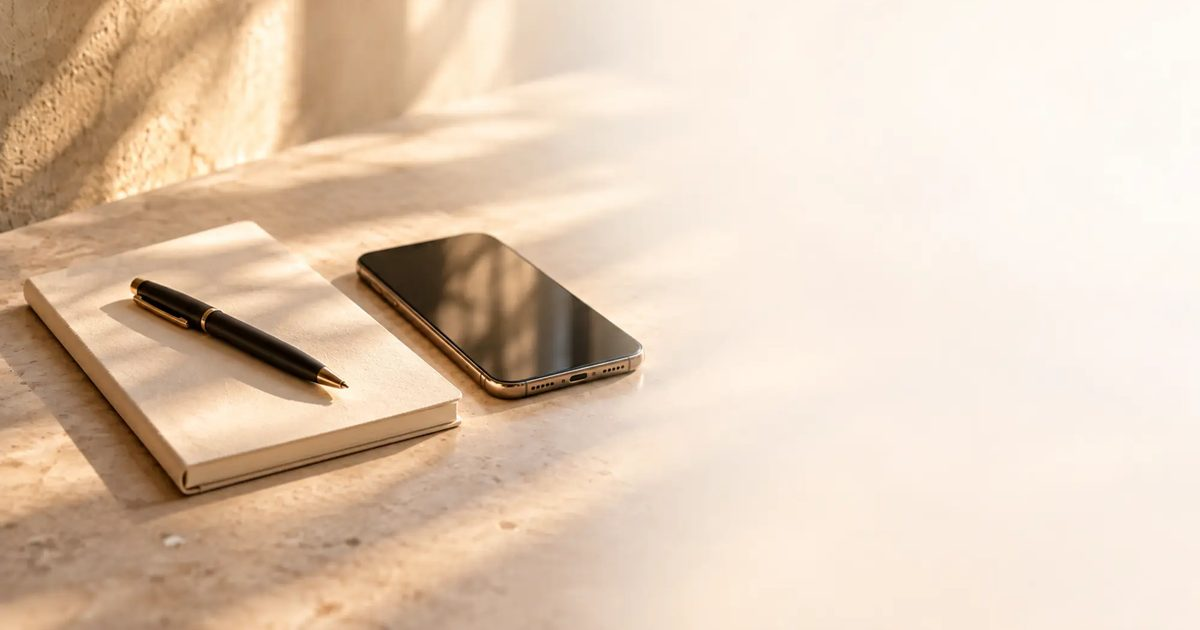
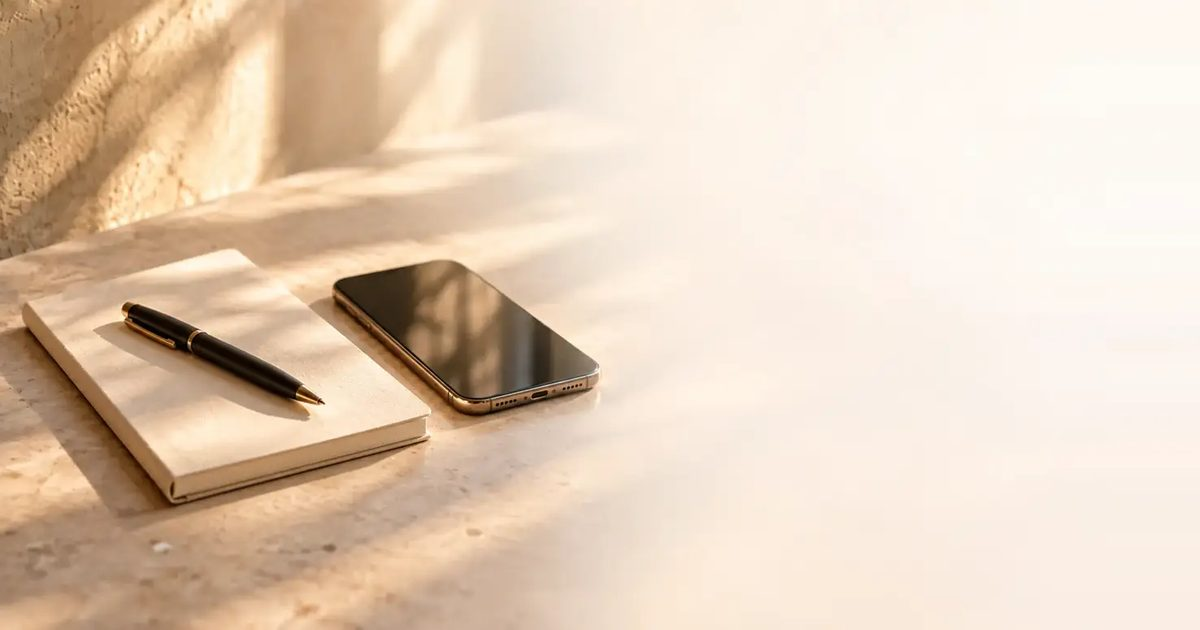
Kontakt: Titelbild auf 2,58 : 1 verlängert (KEV-266)
Nils' Review: Am Computer sah man nur eine Ecke des Notizbuchs, Stift
und Handy fehlten. Das Bild ist jetzt rechts um Wand verlängert wie die
übrigen Titelbilder (rechter Randstreifen gestreckt, Naht überblendet)
und auf 60 % ausgerichtet. Notizbuch, Stift und Handy bleiben von 1024
bis 2560 px ganz. Vorschaubild für geteilte Links neu erzeugt.

diff --git a/app/Support/Titelbilder.php b/app/Support/Titelbilder.php
@@ -255,6 +255,10 @@ class Titelbilder
      *    um Fläche verlängert, Stempel ab 7 %, Blatt bis 93 % der Höhe;
      *    Mit 10 % bleibt der Stempel bis 2560 px ganz, unten fällt dort ein
      *    Teil des Blatts weg.
+     *  - Kontakt: Notizbuch, Stift und Handy (KEV-266). Rechts um Wand
+     *    verlängert, Motiv zwischen 40 und 80 % der Höhe; mit 60 % bleibt
+     *    alles von 1024 bis 2560 px ganz. Vorher in 16:9 fehlten am
+     *    Computer Stift und Handy (Nils' Review).
      *  - Gericht & Verfahren: Richterhammer auf Block, davor Akten (KEV-259).
      *    Rechts um Wand verlängert, Hammer ab 30 %, Akten bis 85 % der Höhe;
      *    Mit 60 % bleibt der Hammer auch bei 2560 px ganz.
@@ -333,6 +337,7 @@ class Titelbilder
         self::ORDNER.'/gruppe-seelenfarben.webp' => 40,
         self::ORDNER.'/gruppe-buerokratie-labyrinth.webp' => 45,
         self::ORDNER.'/ehrenamtsmessen.webp' => 55,
+        self::ORDNER.'/kontakt.webp' => 60,
         self::ORDNER.'/petitionen.webp' => 40,
         self::ORDNER.'/presse.webp' => 40,
     ];

diff --git a/tests/Feature/KontaktbereichTest.php b/tests/Feature/KontaktbereichTest.php
@@ -29,8 +29,10 @@ class KontaktbereichTest extends TestCase
         // Ab <main: Die Meta-Beschreibung im Kopf nennt den alten Titel noch.
         $html = strstr($this->get('/kontakt')->assertOk()->getContent(), '<main');
 
-        // KEV-266: Taddis Bild (Notizbuch, Stift, Handy) unter demselben Namen.
-        $this->assertSame([2000, 1126], array_slice(getimagesize(public_path('img/titelbilder/kontakt.webp')), 0, 2));
+        // KEV-266: Taddis Bild (Notizbuch, Stift, Handy) unter demselben Namen,
+        // seit Nils' Review rechts auf 2,58 : 1 verlängert wie die anderen.
+        $this->assertSame([2000, 775], array_slice(getimagesize(public_path('img/titelbilder/kontakt.webp')), 0, 2));
+        $this->assertSame(60, \App\Support\Titelbilder::FOKUS[\App\Support\Titelbilder::ORDNER.'/kontakt.webp'] ?? null);
 
         // KEV-271, KEV-272: kurze Überschrift, Taddis Text statt der Anschrift.
         $this->assertMatchesRegularExpression('/<h2[^>]*>\s*Kontaktmöglichkeiten\s*<\/h2>/u', $html);

diff --git a/docs/Bildsprache.md b/docs/Bildsprache.md
@@ -84,7 +84,7 @@ ansehen, bei 1024, 1440 und 1920 px. Jedes Bild liegt zweimal vor:
 | Beschwerdemanagement | Briefschlitz mit Umschlag an heller Putzwand; von Taddi geliefert (KEV-80), ausgerichtet auf 35 % |
 | Arbeitsgruppen | Holztisch mit Mappe, Karten und zwei Stiften, Stühle; von Taddi geliefert (KEV-83, statt Papier, Vase, Leinen), mittig ausgerichtet (`Titelbilder::FOKUS`, 50 %). Steht auch auf jeder AG-Seite, solange die AG im Panel kein eigenes Titelbild hat |
 | Anfragen | Briefumschlag auf Holztisch |
-| Kontakt | zwei Becher nebeneinander am langen Tisch |
+| Kontakt | Notizbuch mit Stift und Handy auf Stein, Licht durch Blätter; von Taddi geliefert (KEV-266, Drive-Ordner „7. Kontakt & Austausch“). Rechts um Wand verlängert (2,58 : 1, Nils' Review: am Computer fehlten Stift und Handy), Motiv zwischen 40 und 80 % der Höhe, ausgerichtet auf 60 % |
 | Wissen | Bücherstapel vor abblätternder Wand, davor ein aufgeschlagenes Buch; von Taddi geliefert (KEV-143, vorher unser Bücherstapel mit Leinenband). Rechts um Wand verlängert (2,58 : 1), Bücher zwischen 25 und 84 % der Höhe, ausgerichtet auf 60 % |
 | Raum für Ungesagtes | offene Holztür in einem dunklen Raum, dahinter helles Licht; von Taddi geliefert (KEV-159, Drive-Ordner „4. Raum für Ungesagtes“, „0 Deine Stimme – Raum für ungesagtes“). Rechts um Wand verlängert (2,58 : 1), ausgerichtet auf 25 %, damit die Tür vom Rahmen bis zur Schwelle zu sehen ist |
 | Unüberhörbar | Tonbandgerät mit zwei Spulen, davor eine Kassette; von Taddi geliefert (KEV-159, „4. Unüberhörbar“). Rechts um Wand verlängert (2,58 : 1), ausgerichtet auf 60 % |
